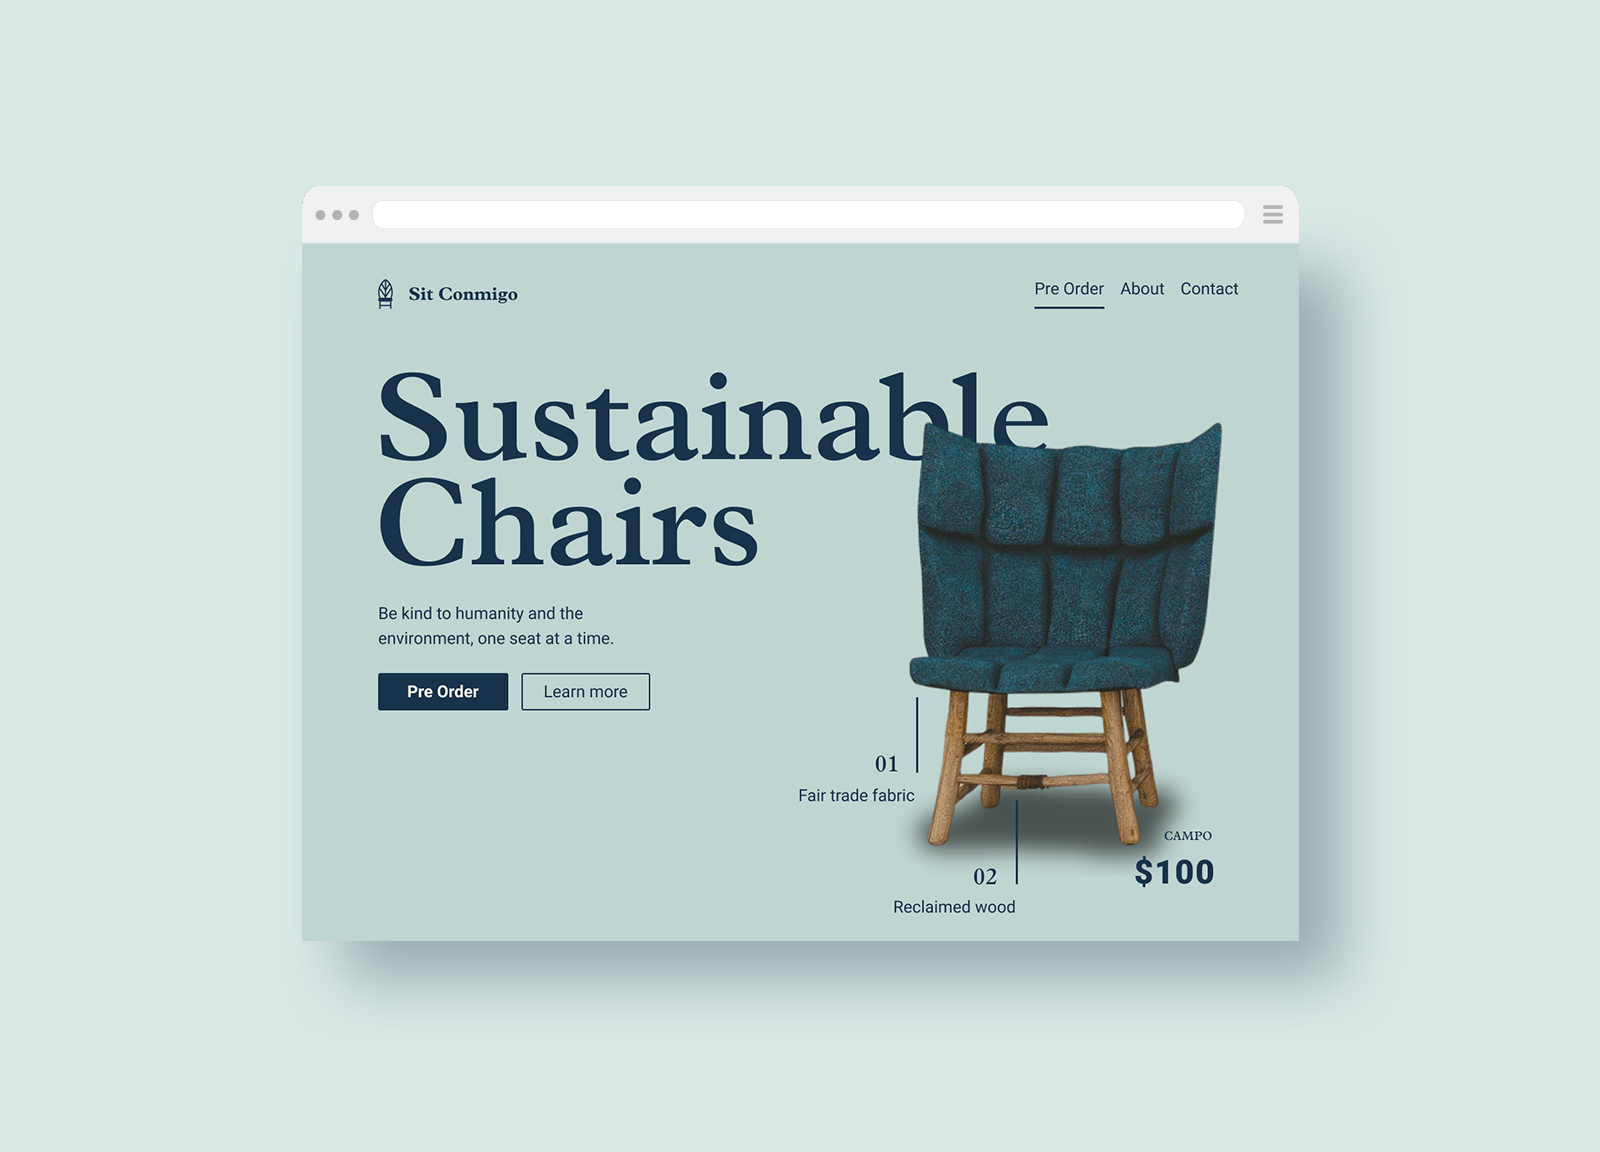
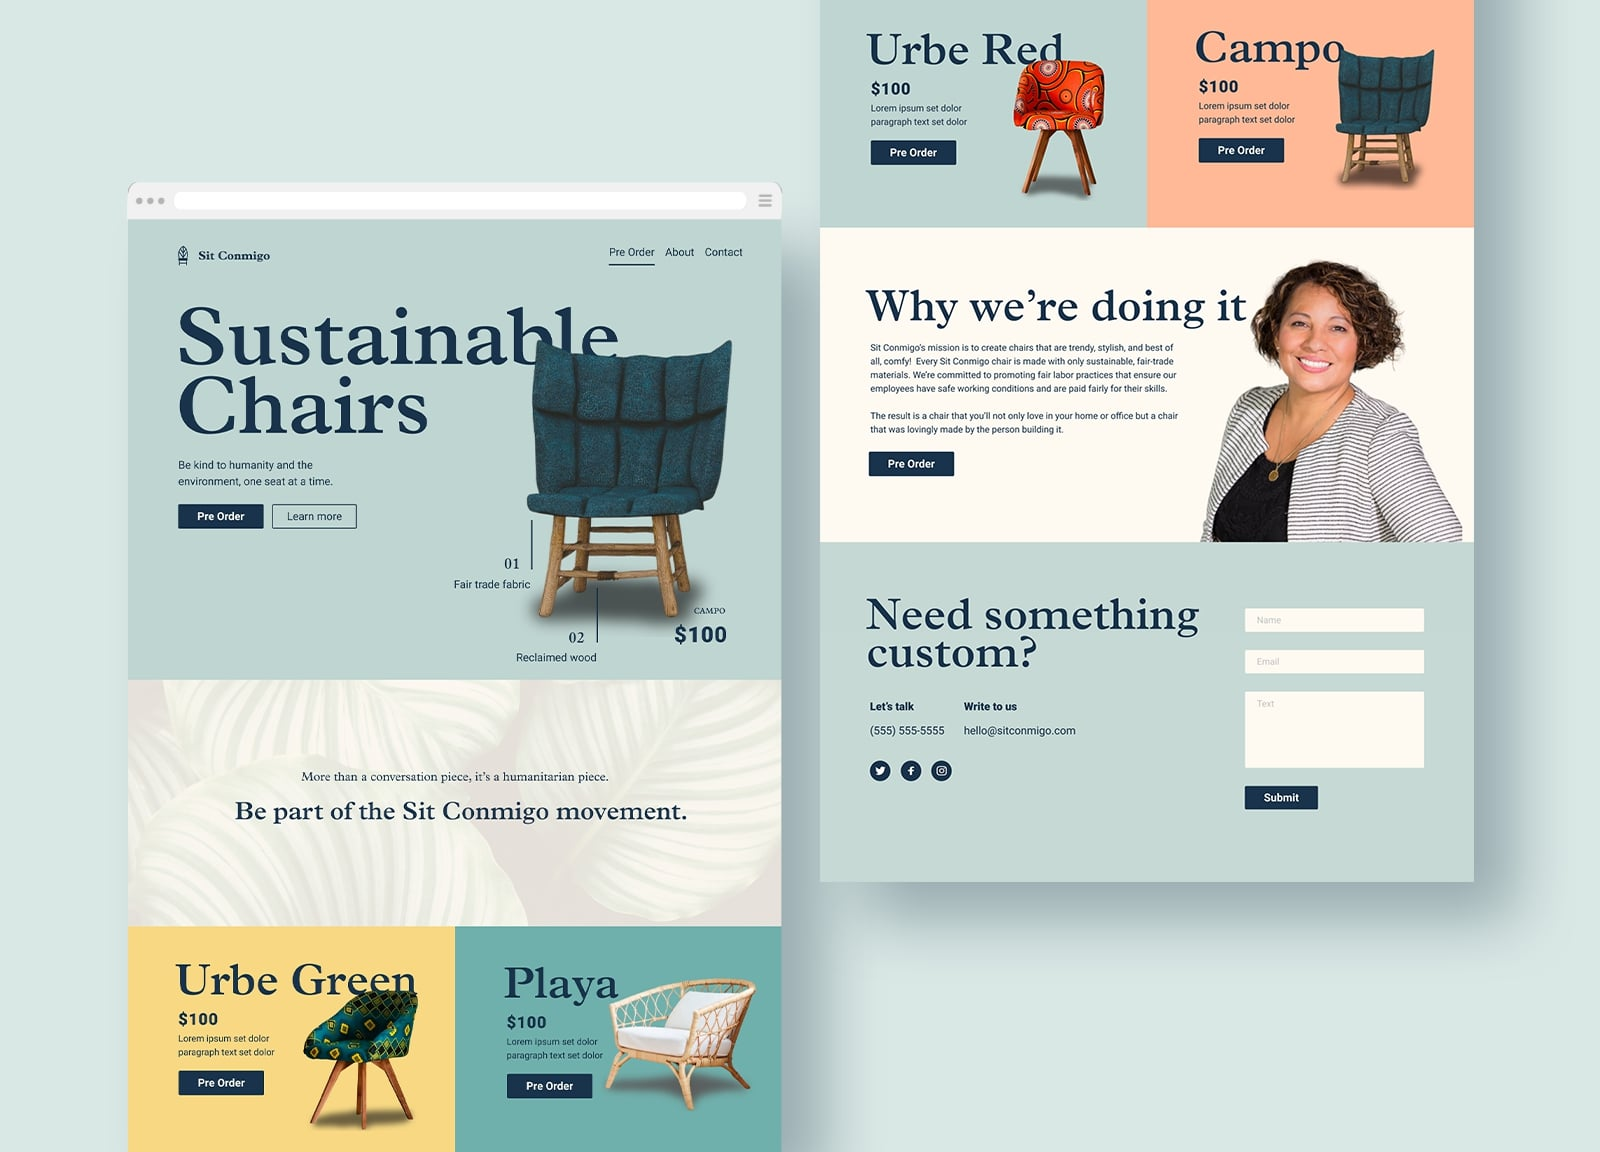
Update sit conmigo img and links

diff --git a/work/sit-conmigo-overview.html b/work/sit-conmigo-overview.html
@@ -64,7 +64,7 @@
             </p>
             <div class="button-container">
               <a
-                href="https://drive.google.com/file/d/1dkCPM4S8-hX2UBq1BA7V5-i1KCP-sjHw/view?usp=sharing"
+                href="https://www.figma.com/file/pXu7Yg2FEOLN654QSFcVtd/Sit-Conmigo-Website-Design"
                 target="_blank"
                 class="button"
                 id="button-full-width"
@@ -82,7 +82,7 @@
             </div>
             <div class="mini-detail-item">
               <h2>Deliverables</h2>
-              <p>Web design mockup</p>
+              <p>Design mockup</p>
             </div>
             <div class="mini-detail-item">
               <h2>Tech</h2>
@@ -121,7 +121,7 @@
             <div class="section-result-content">
               <div class="button-container">
                 <a
-                  href="https://drive.google.com/file/d/1dkCPM4S8-hX2UBq1BA7V5-i1KCP-sjHw/view?usp=sharing"
+                  href="https://www.figma.com/file/pXu7Yg2FEOLN654QSFcVtd/Sit-Conmigo-Website-Design"
                   target="_blank"
                   class="button"
                   id="button-full-width"
@@ -132,7 +132,9 @@
           </div>
         </section>
 
-        <section><figure><img src="../img/sit-conmigo-mockup-wireframe.png"class="no-shadow"></figure></section>
+        <section>
+          <figure><img src="../img/sit-conmigo-design.png" class="no-shadow"/></figure>
+        </section>
 
         <section class="other-work-links">
           <h3>Other work</h3>

diff --git a/work/index.html b/work/index.html
@@ -74,7 +74,7 @@
                   <h3>Sit Conmigo</h3>
                   <span>Web Design</span>
                   <p>
-                    Sit Conmigo is an ethical, sustainable chair company concept. It is a one-page website that features desktop, tablet and mobile designs.
+                    Sit Conmigo is an ethical, sustainable chair company concept. It is a one-page website design that features desktop, tablet and mobile layouts.
                 </div>
               </article>
             </a>
